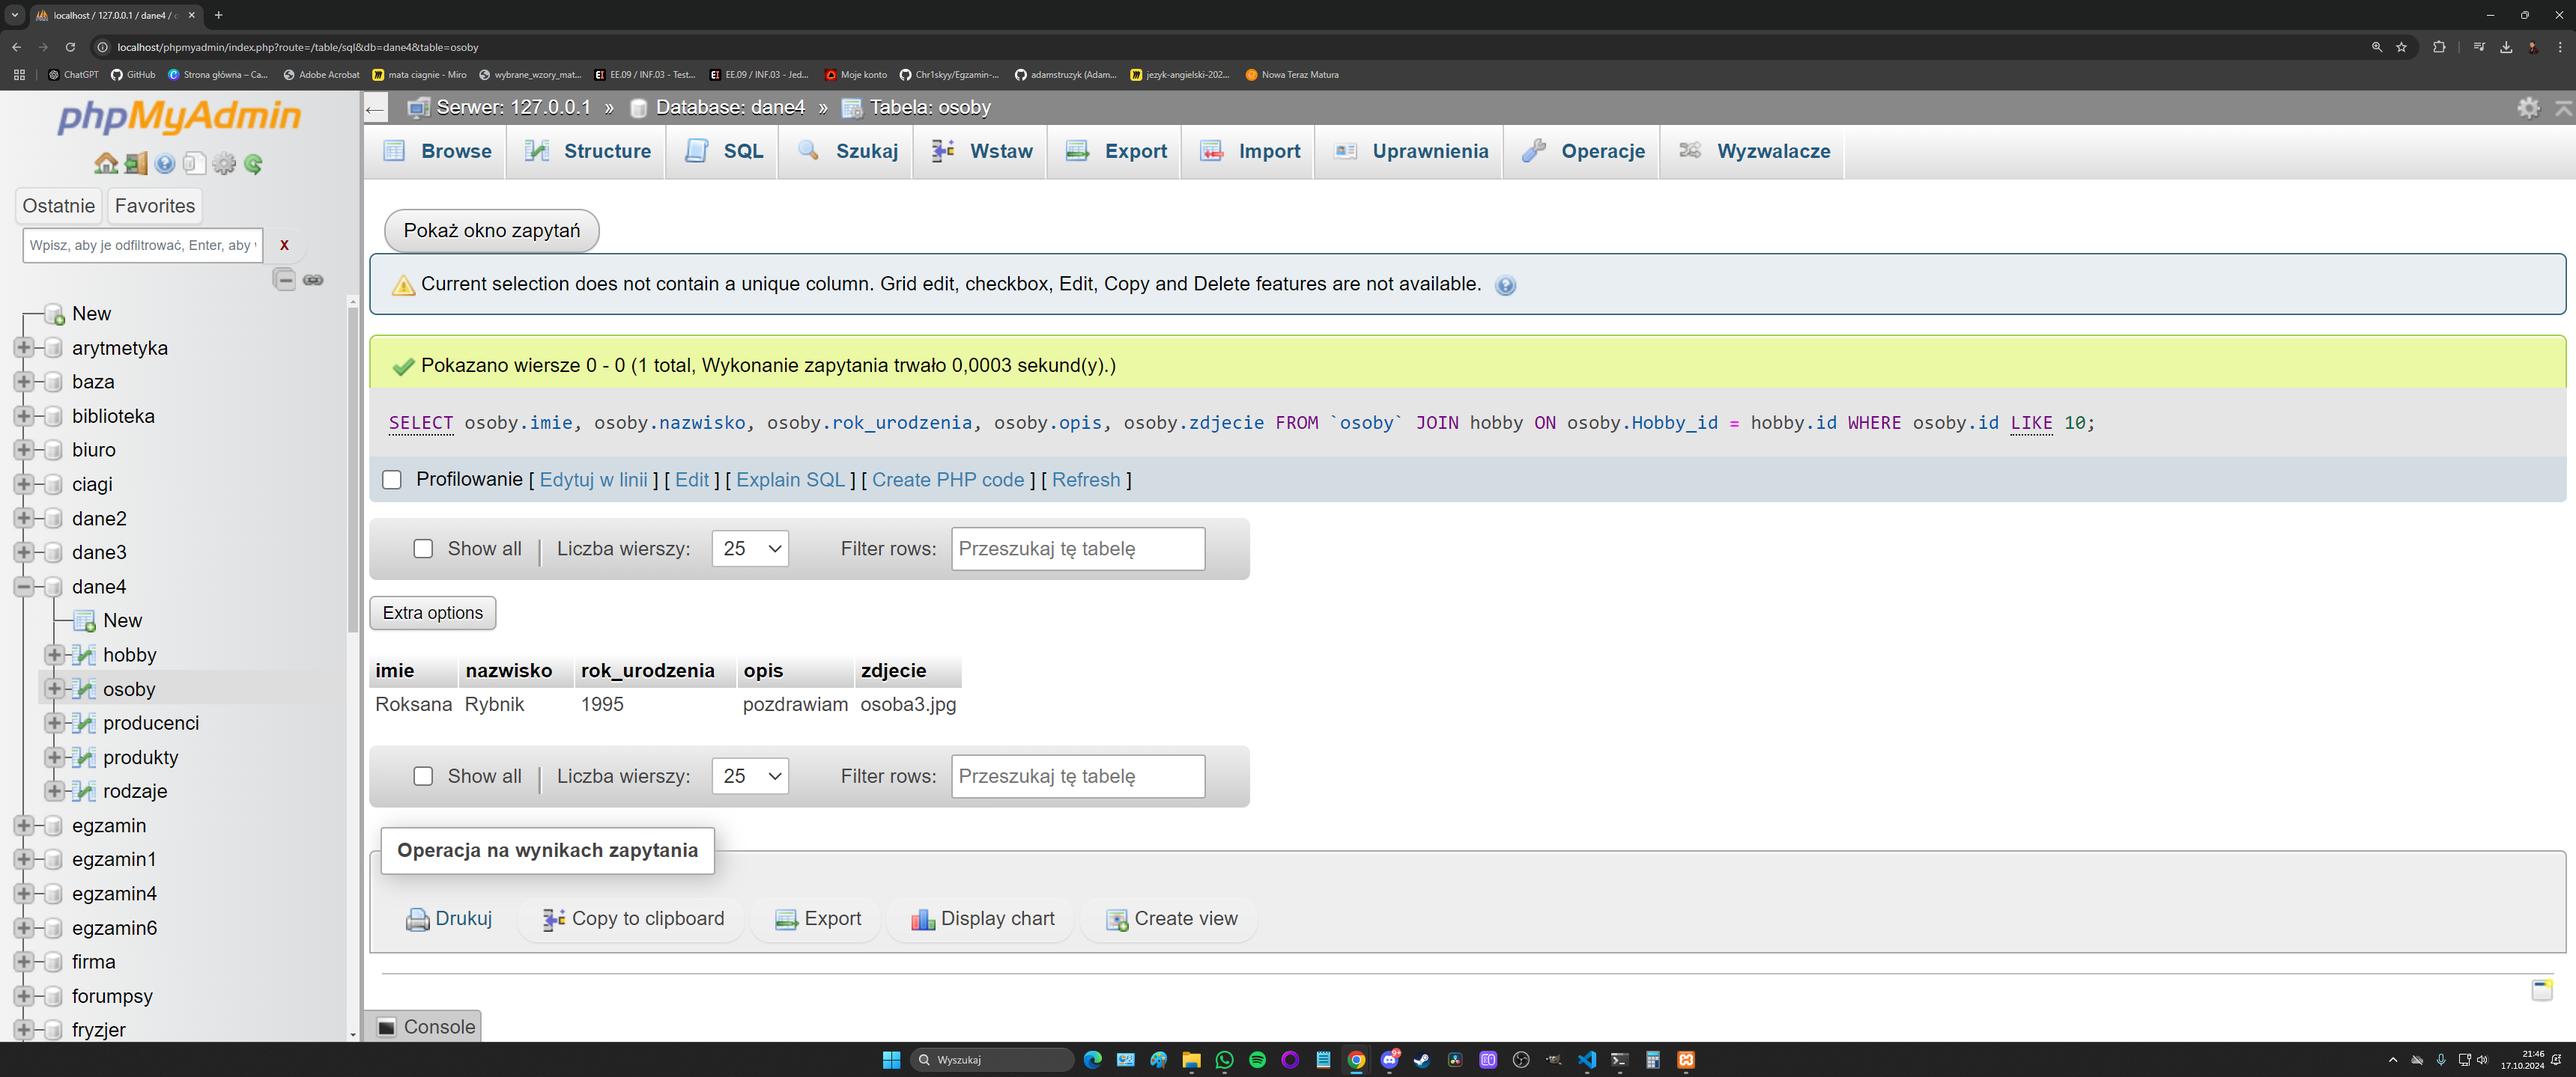
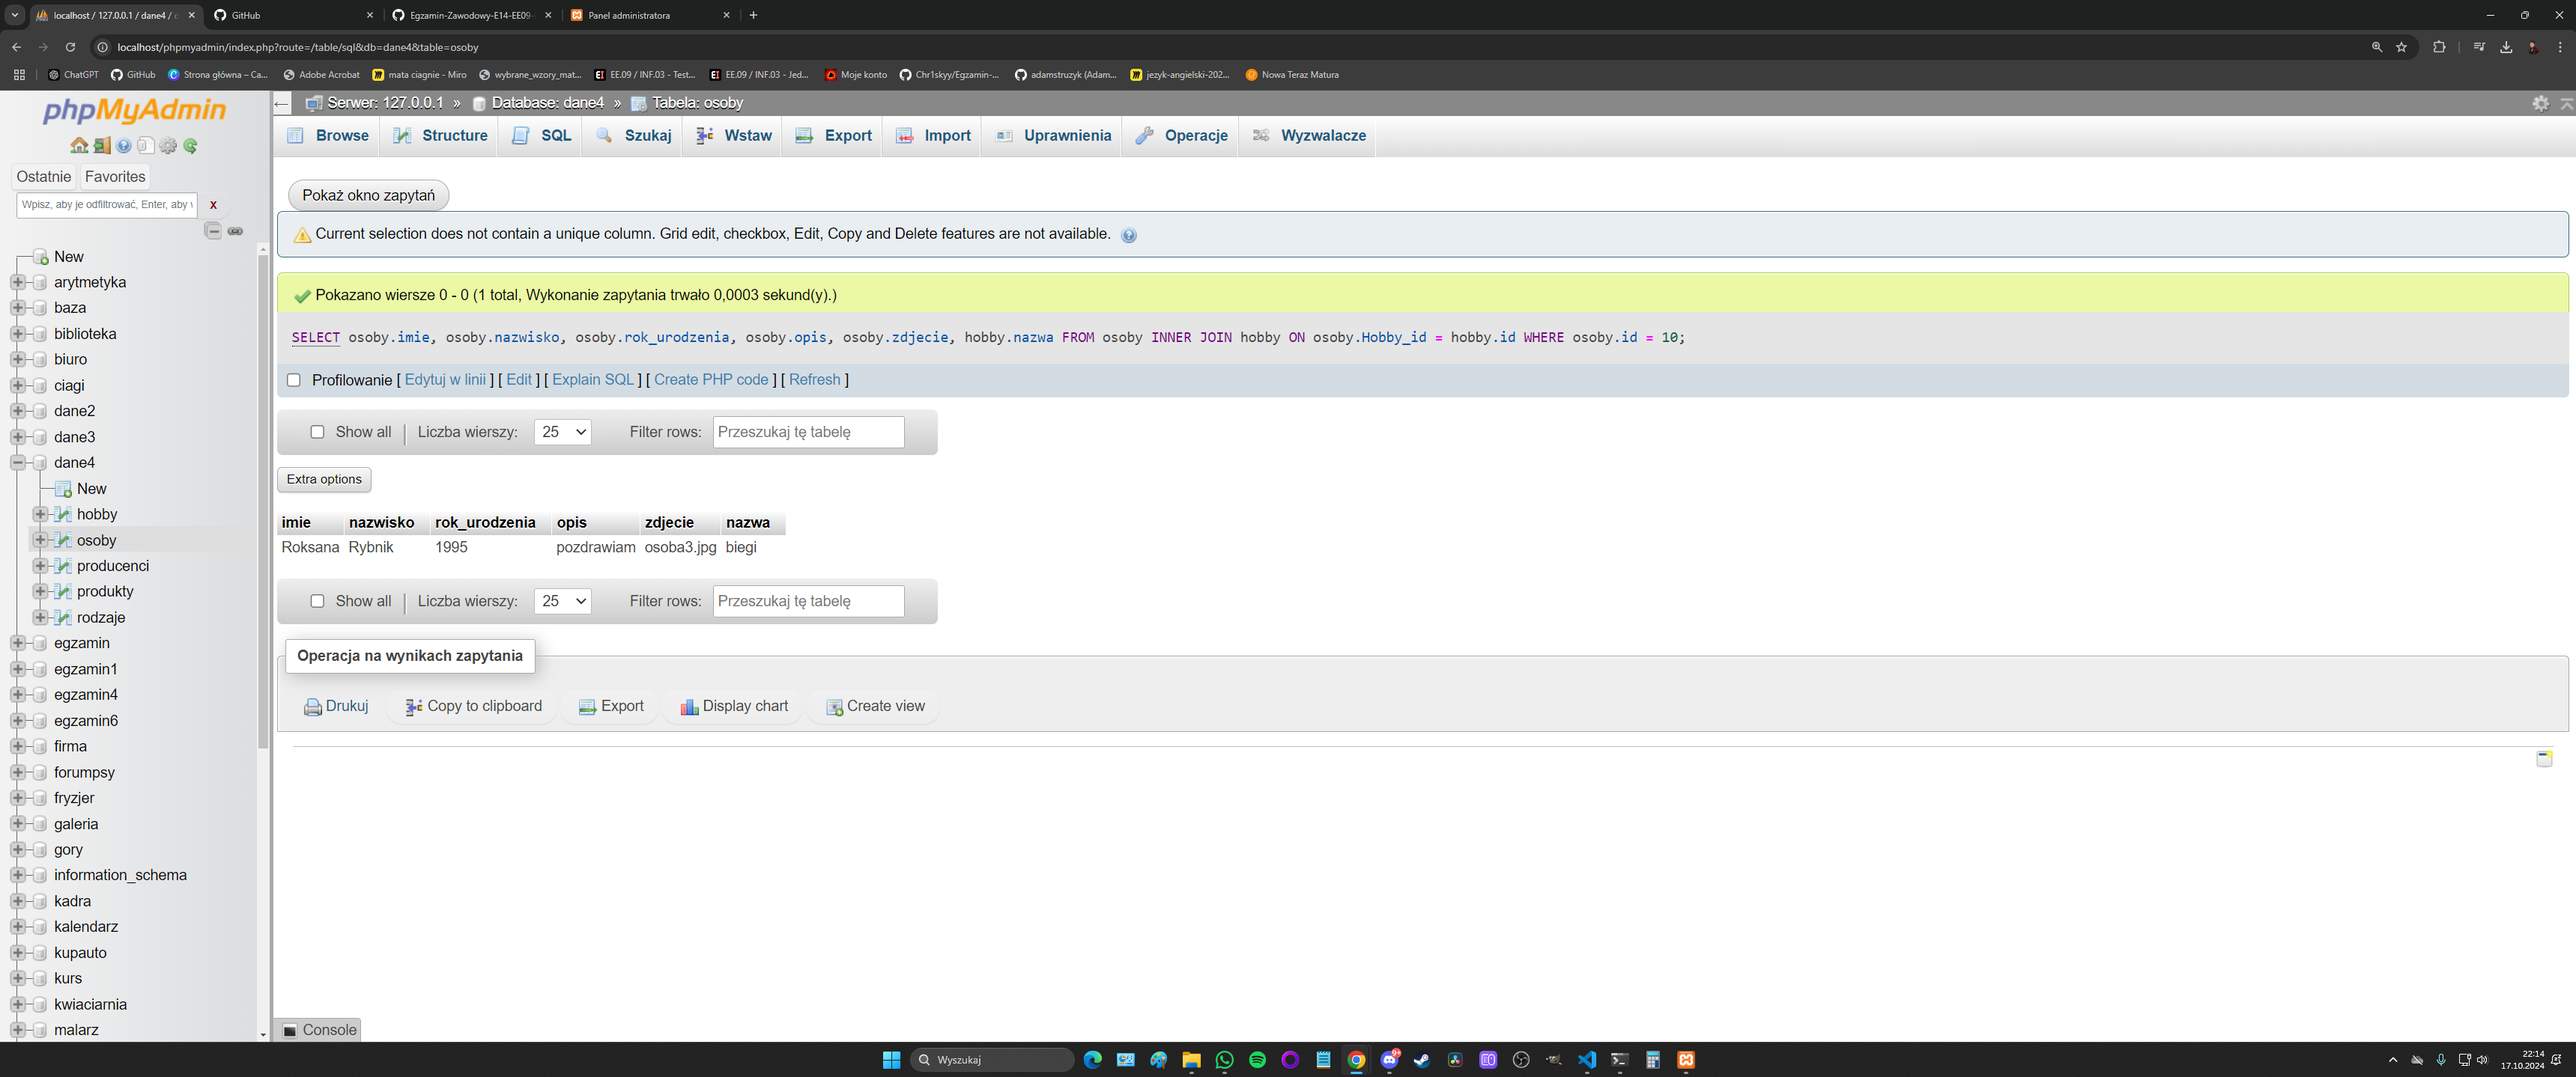
php

diff --git a/ROZWIAZANE/03_ee09_2021_06_04/rozwiazanie/users.php b/ROZWIAZANE/03_ee09_2021_06_04/rozwiazanie/users.php
@@ -1,0 +1,71 @@
+<!DOCTYPE html>
+<html lang="pl">
+<head>
+    <meta charset="UTF-8">
+    <meta name="viewport" content="width=device-width, initial-scale=1.0">
+    <link rel="stylesheet" href="styl4.css">
+    <title>Panel administratora</title>
+</head>
+<body>
+    <header>
+        <h3>Portal Społecznościowy - panel administratora</h3>
+    </header>
+    <section id="lewy">
+        <h4>Użytkownicy</h4>
+        <!-- skrypt 1 -->
+        <?php
+            $polaczenie = mysqli_connect('localhost', 'root', '', 'dane4');
+            if(!$polaczenie){
+                exit();
+            }
+            else{
+                $zapytanie = "SELECT id, imie, nazwisko, rok_urodzenia, zdjecie FROM `osoby` LIMIT 30;";
+                $odpowiedz = mysqli_query($polaczenie, $zapytanie);
+                $text = " ";
+                while($tab = mysqli_fetch_row($odpowiedz)){
+                    $wiek = date('Y') - $tab[3];
+                    $text .= "$tab[0]. $tab[1] $tab[2], $wiek lat<br>";
+                }
+                echo $text;
+            }
+            mysqli_close($polaczenie);
+        ?>
+        <a href="settings.html">Inne ustawienia</a>
+    </section>
+    <section  id="prawy">
+        <h4>Podaj id użytkownika</h4>
+        <form action="users.php" method="post">
+            <input type="number" name="numer">
+            <input type="submit" value="ZOBACZ">
+        </form>
+        <hr>
+        <!-- skrypt 2 -->
+        <?php
+            $polaczenie = mysqli_connect('localhost', 'root', '', 'dane4');
+            if(!$polaczenie){
+                exit();
+            }
+            else{
+                if(!empty($_POST['numer'])){
+                    $numer = $_POST['numer'];
+                    $zapytanie = "SELECT osoby.imie, osoby.nazwisko, osoby.rok_urodzenia, osoby.opis, osoby.zdjecie, hobby.nazwa FROM osoby INNER JOIN hobby ON osoby.Hobby_id = hobby.id WHERE osoby.id = $numer;";
+                    $odpowiedz = mysqli_query($polaczenie, $zapytanie);
+                    $text = " ";
+                    while($tab = mysqli_fetch_row($odpowiedz)){
+                        $text .= "<h2>$numer. $tab[0] $tab[1]</h2>";
+                        $text .= "<img src='$tab[4]' alt='$numer'>";
+                        $text .= "<p>Rok urodzenia: $tab[2]</p>";
+                        $text .= "<p>Opis: $tab[3]</p>";
+                        $text .= "<p>Hobby: $tab[5]</p>";
+                    }
+                    echo $text;
+                }
+            }
+            mysqli_close($polaczenie);
+        ?>
+    </section>
+    <footer>
+        Stronę wykonał: Szymon Maniak 5TI
+    </footer>
+</body>
+</html>
